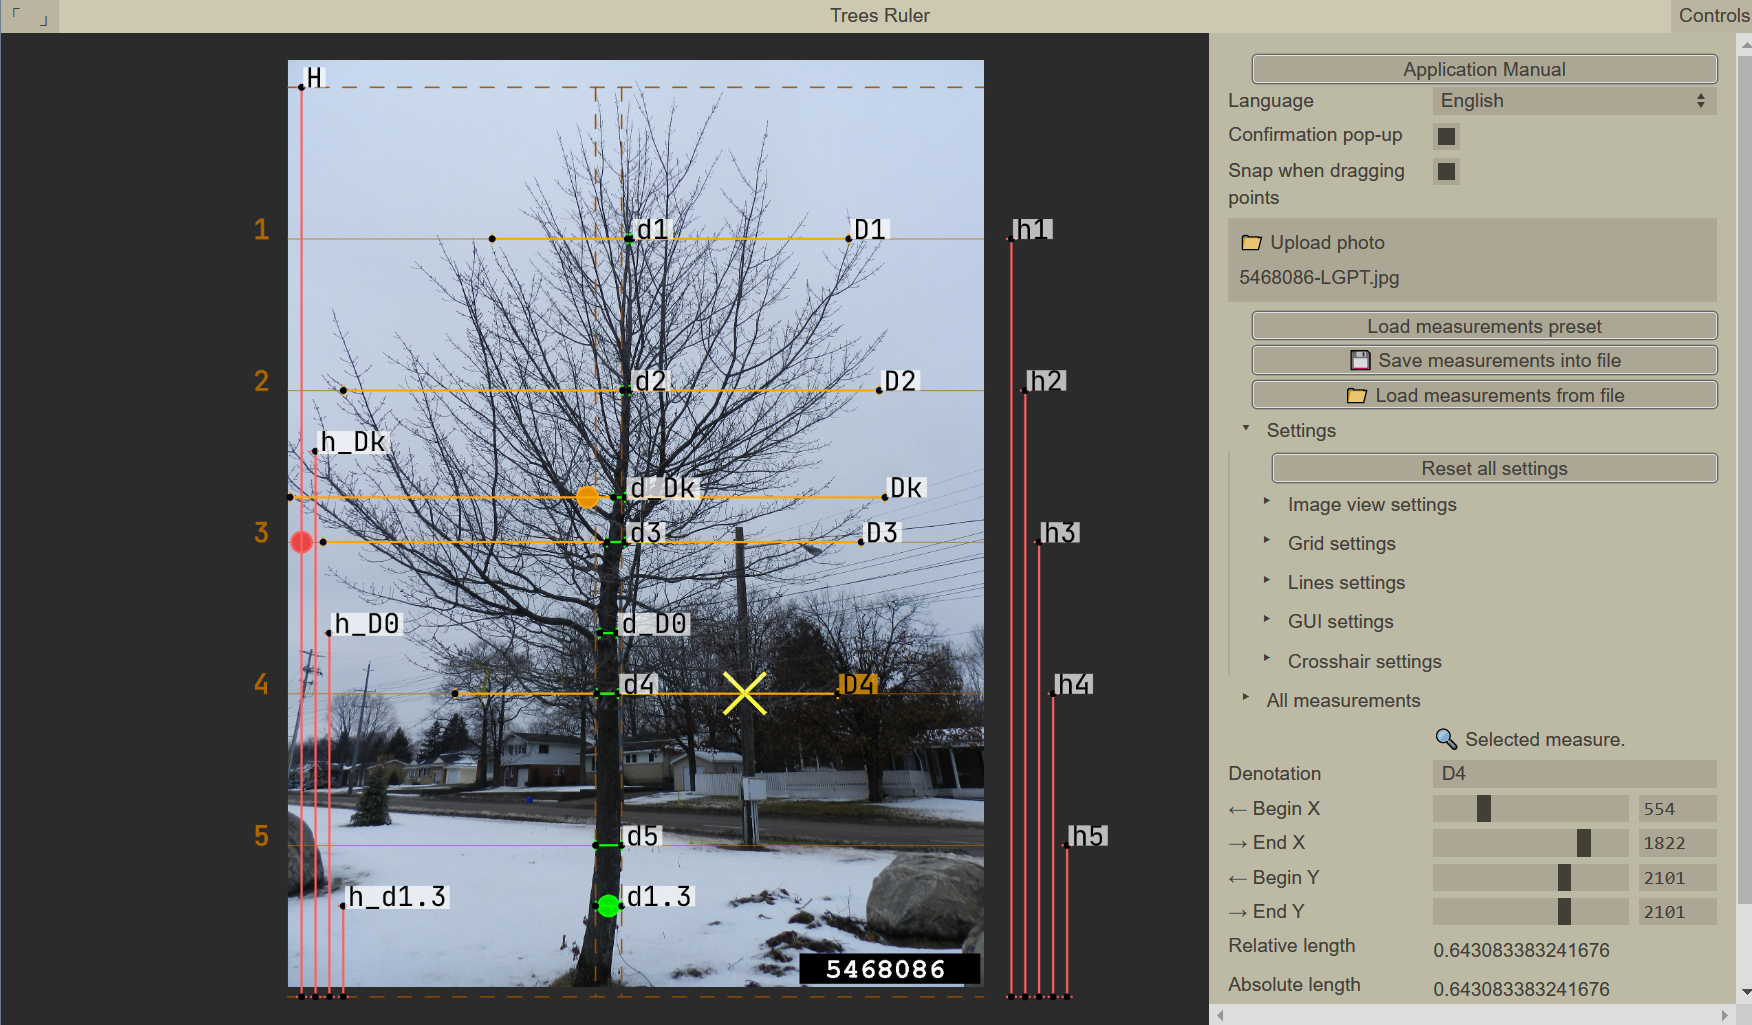
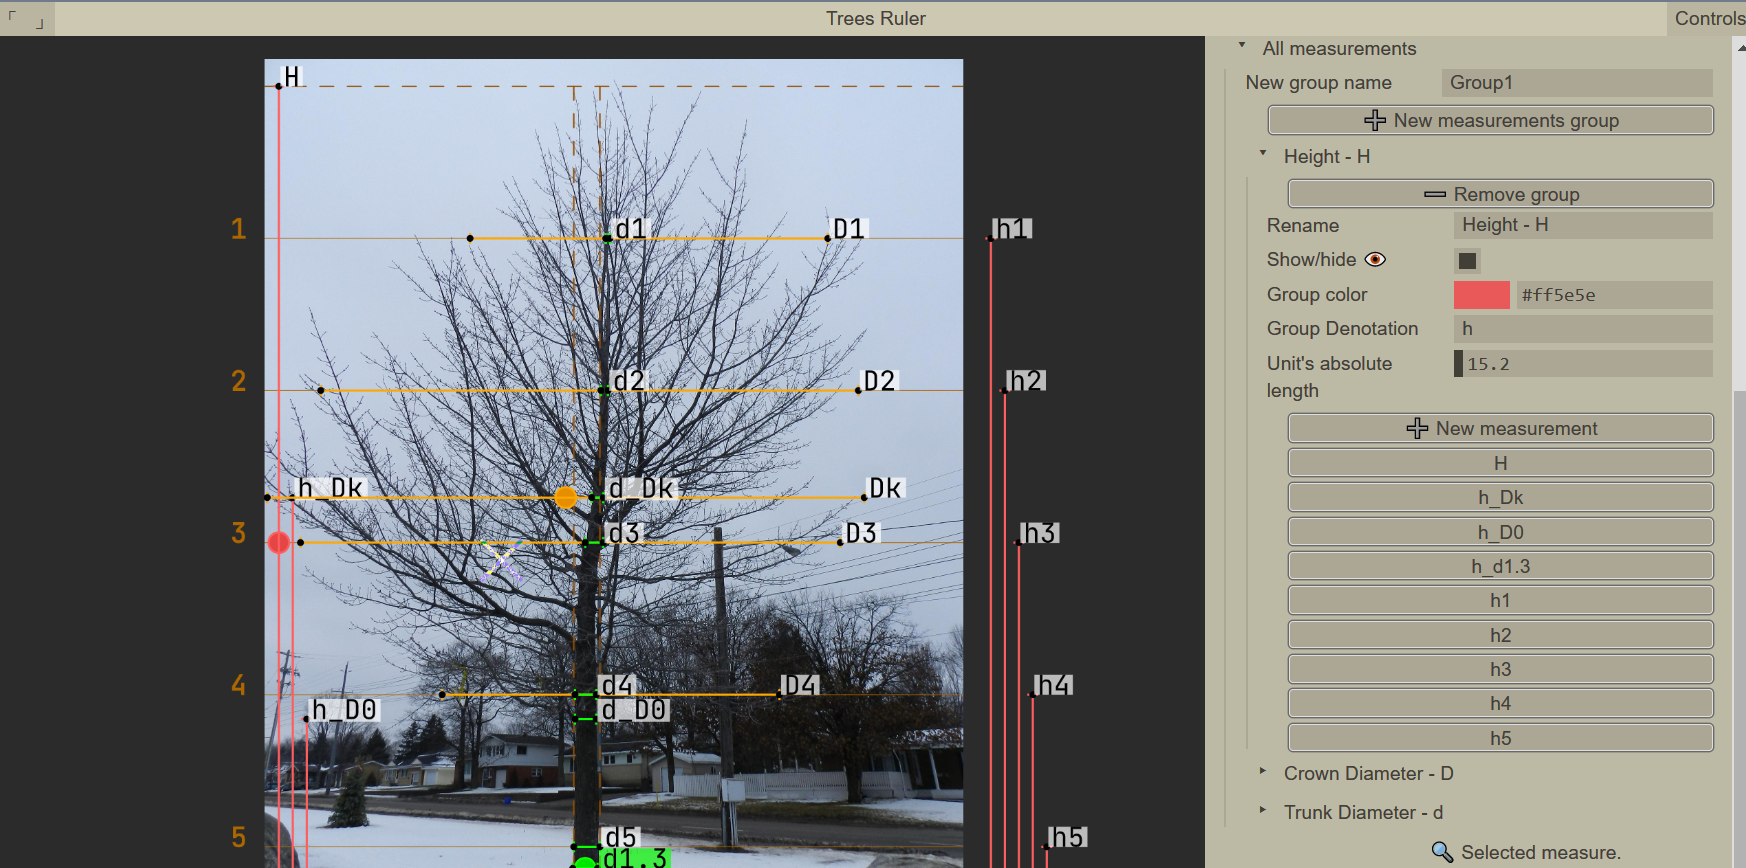
Redo screenshot, add example YAML to readme

diff --git a/README.md b/README.md
@@ -23,6 +23,54 @@
 
 ![Main page](readme/mainscreen.png)
 
+## Example output YAML file
+```
+- group_name: "Height - H"
+  number_of_measurements: 9
+  unit_absolute_length: 15.2
+  image_rotation_degrees: 0
+  unit_measurement:
+    denotation: H
+    begin_point_px: [46.08,3105.6023335176355]
+    end_point_px: [46.08,91.0996597208443]
+  measurements:
+  - denotation: h_Dk
+    begin_point_px: [92.16,3105.6023335176355]
+    end_point_px: [92.16,1449.7169035370705]
+  - denotation: h_D0
+    begin_point_px: [138.24,3105.6023335176355]
+    end_point_px: [138.24,2181.365400177257]
+  - denotation: h_d1.3
+    begin_point_px: [184.32,3105.6023335176355]
+    end_point_px: [184.32,2804.1520661379564]
+  - denotation: h1
+    begin_point_px: [2396.16,3105.6023335176355]
+    end_point_px: [2396.16,593.5167720203095]
+  - denotation: h2
+    begin_point_px: [2442.24,3105.6023335176355]
+    end_point_px: [2442.24,1095.9338843197747]
+  - denotation: h3
+    begin_point_px: [2488.32,3105.6023335176355]
+    end_point_px: [2488.32,1598.35099661924]
+  - denotation: h4
+    begin_point_px: [2534.4,3105.6023335176355]
+    end_point_px: [2534.4,2100.7681089187054]
+  - denotation: h5
+    begin_point_px: [2580.48,3105.6023335176355]
+    end_point_px: [2580.48,2603.18522121817]
+  pretty_table: >
+    Measurement             RelativeLength     AbsoluteLength     
+    H                       1                  15.2               
+    h1                      0.833333333333     12.66666666666     
+    h2                      0.666666666666     10.13333333333     
+    h_Dk                    0.549306339773     8.349456364556     
+    h3                      0.499999999999     7.599999999999     
+    h4                      0.333333333333     5.066666666666     
+    h_D0                    0.306596819891     4.660271662350     
+    h5                      0.166666666666     2.533333333333     
+    h_d1.3                  0.100000000000     1.520000000000
+```
+
 ## Running the application:
 
 There might be my web-site running with this application, try:
